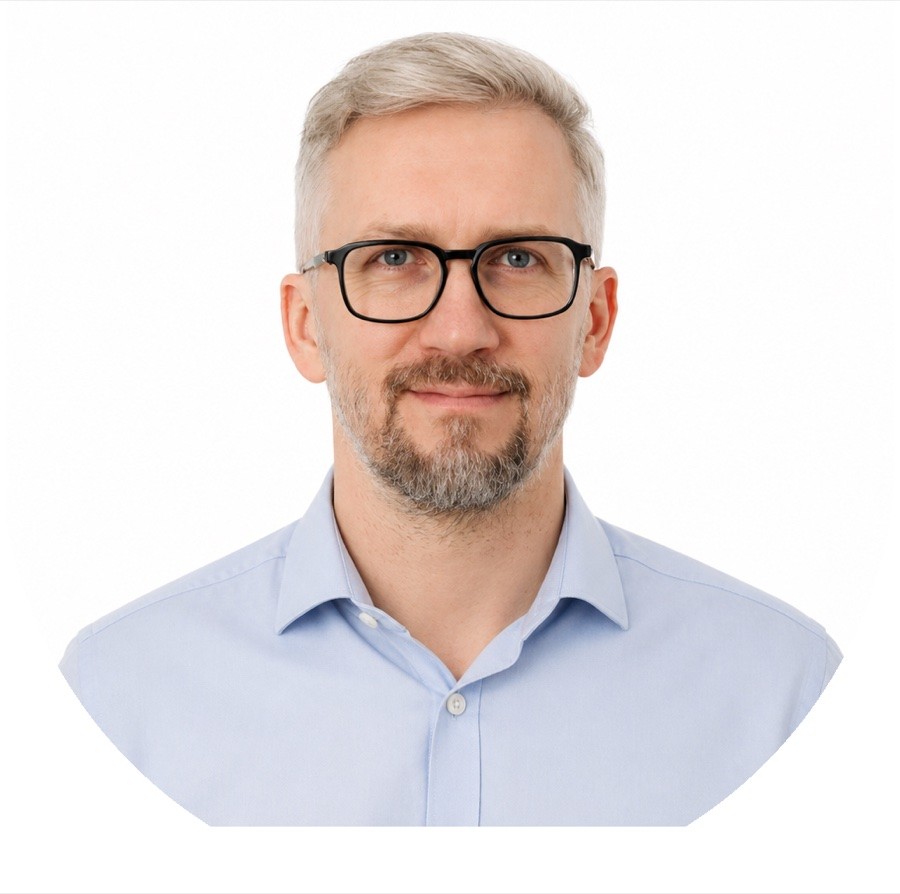
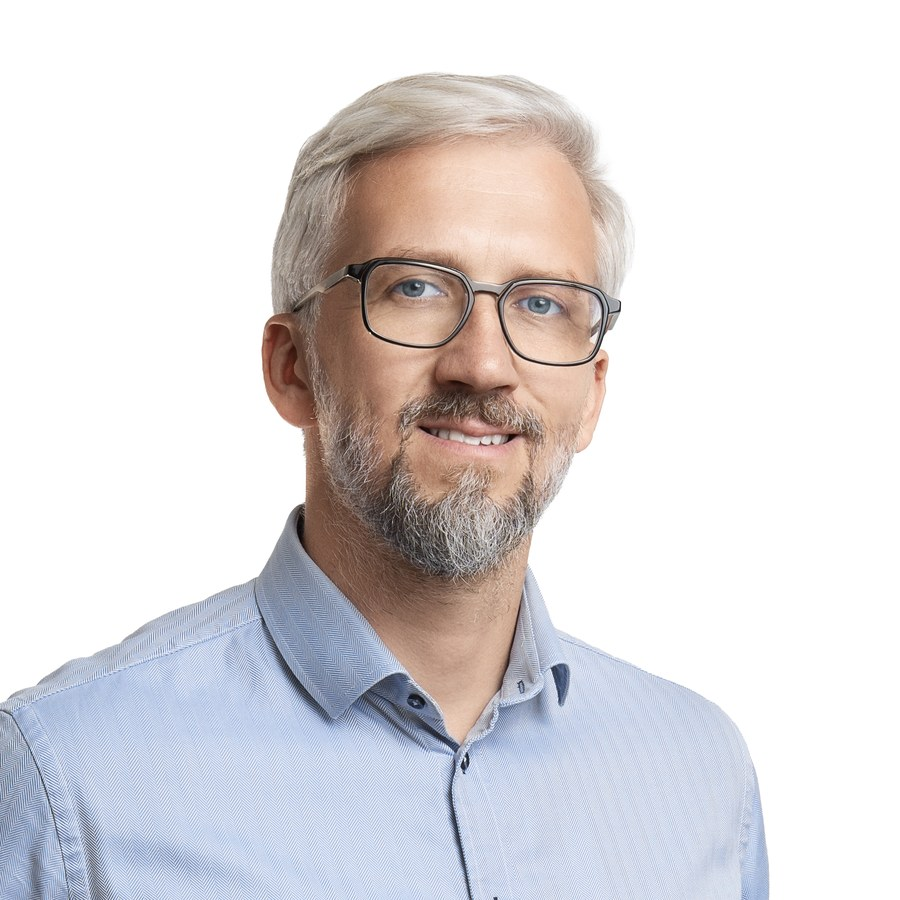
Fotky kandidátů z focení: Štěrba, Wolna, Chmielewski (nové) + Fremrová, Sirotová, Kurzok (výměna za finální)
Ořezy 800×800 (_c) + 900×900 ze studiových portrétů (Drive složka Portréty).

diff --git a/src/data/kandidati.js b/src/data/kandidati.js
@@ -42,7 +42,7 @@ export const kandidati = [
     "jmeno": "MUDr. Marek Štěrba",
     "vek": 35,
     "profese": "praktický lékař",
-    "foto": null,
+    "foto": "marek_sterba_c.jpg",
     "iniciraly": "MŠ",
     "dotaznik": true,
     "detail": null,
@@ -54,7 +54,7 @@ export const kandidati = [
     "jmeno": "Mgr. Martina Wolna",
     "vek": 52,
     "profese": "ředitelka knihovny",
-    "foto": null,
+    "foto": "martina_wolna_c.jpg",
     "iniciraly": "MW",
     "detail": null,
     "poradiSlovem": "pátá"
@@ -155,7 +155,7 @@ export const kandidati = [
     "jmeno": "Bc. Aron Chmielewski",
     "vek": 35,
     "profese": "hokejista",
-    "foto": null,
+    "foto": "aron_chmielewski_c.jpg",
     "iniciraly": "AC",
     "detail": null,
     "poradiSlovem": "čtrnáctý"
